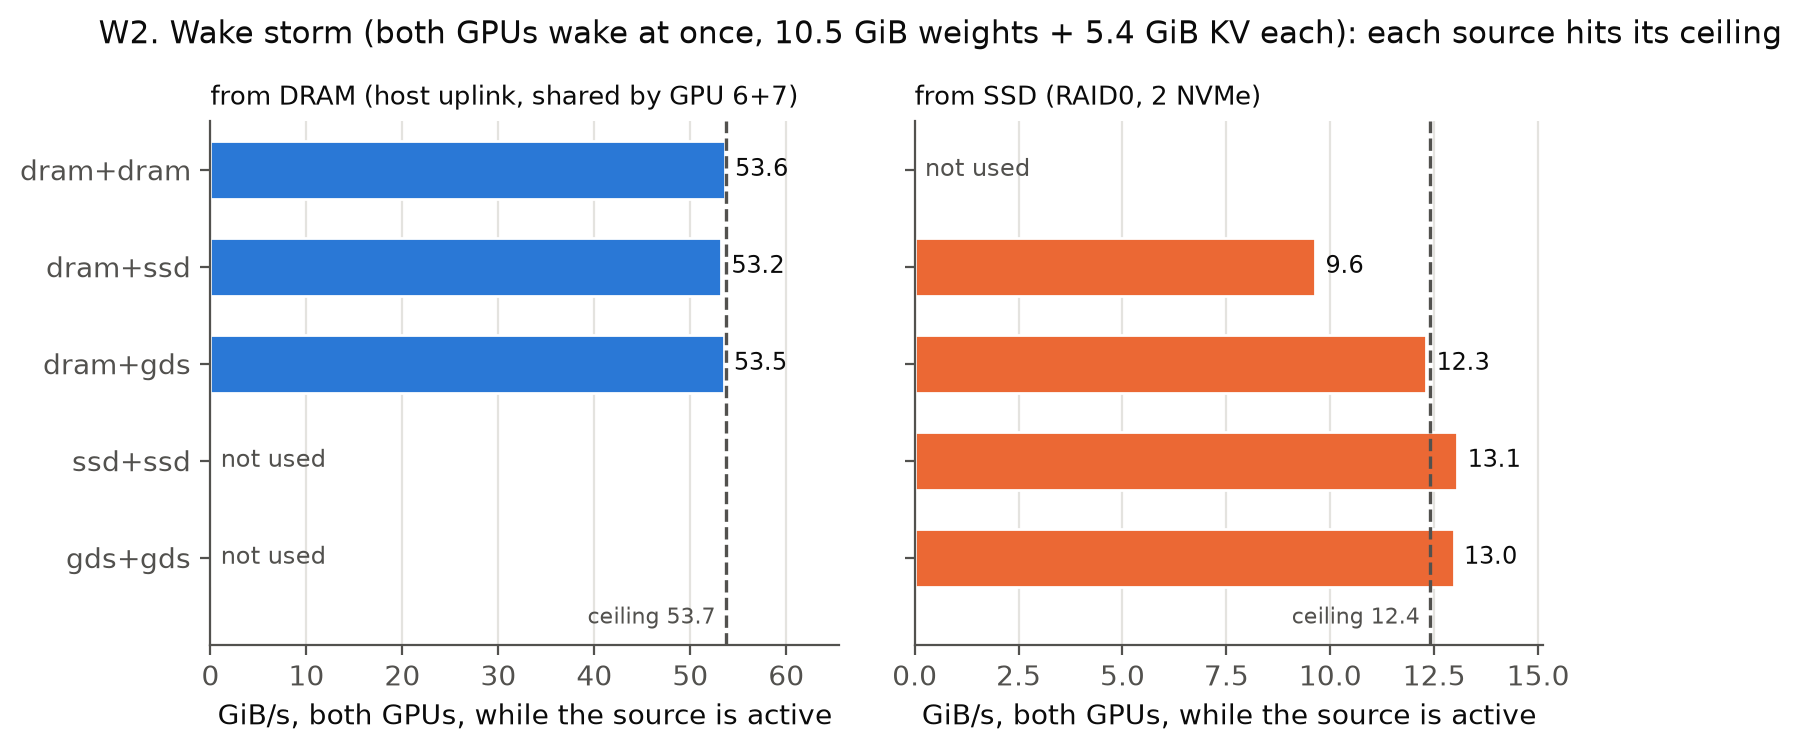
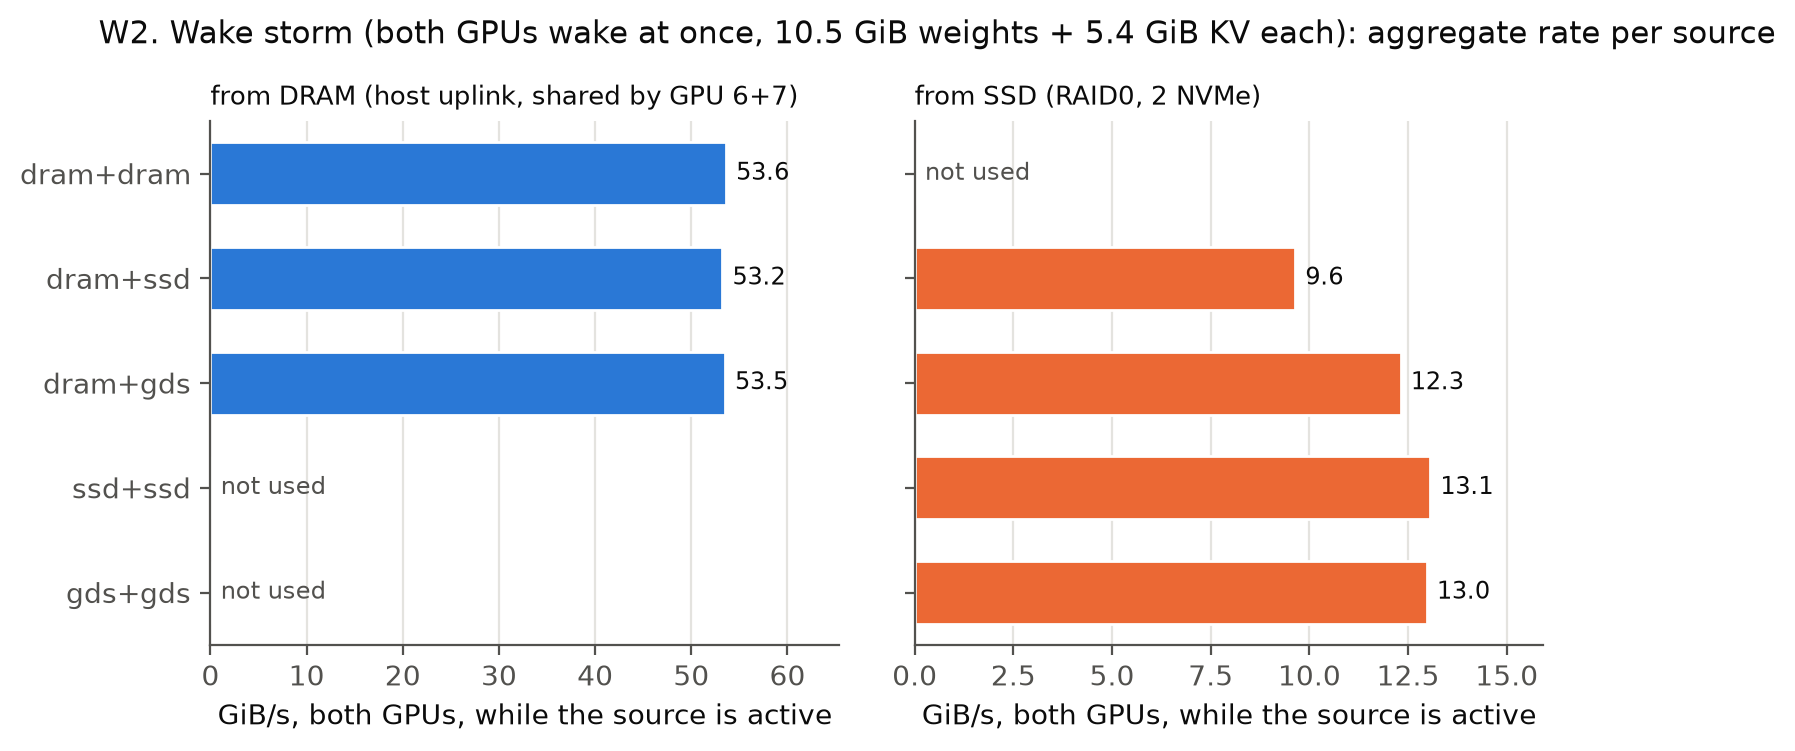
W2: drop the ceiling lines
The SSD ceiling (12.4 GiB/s, single-process GDS) sat below the ssd+ssd and
gds+gds rates (13.1, 13.0), which match RAID0's ~13.2 GiB/s POSIX read.
Show the measured rates only.

diff --git a/analysis/figures_page.html b/analysis/figures_page.html
@@ -108,14 +108,14 @@ footer { color: var(--muted); font-size: 12.5px; }
 </figure>
 
 <figure id="W2">
-  <div class="fig-head"><span class="tag">W2</span><h2>每個資料來源的總頻寬和上限</h2></div>
+  <div class="fig-head"><span class="tag">W2</span><h2>每個資料來源的總頻寬</h2></div>
   <p class="lede" id="W2-lede"></p>
   <div class="legend" id="W2-legend"></div>
   <div style="display:grid;grid-template-columns:repeat(auto-fit,minmax(280px,1fr));gap:16px">
     <div class="chart" style="height:260px;min-width:0"><canvas id="c-W2a" aria-label="DRAM 來源頻寬"></canvas></div>
     <div class="chart" style="height:260px;min-width:0"><canvas id="c-W2b" aria-label="SSD 來源頻寬"></canvas></div>
   </div>
-  <p class="note">頻寬算法：每一輪兩張 GPU 從該來源搬的總 bytes，除以該來源從開始到結束的時間；取 12 輪的中位數。上限是之前單獨量到的值：GPU 6、7 共用的 host uplink 53.7 GiB/s，RAID0 的 sequential read 12.4 GiB/s。</p>
+  <p class="note">頻寬算法：每一輪兩張 GPU 從該來源搬的總 bytes，除以該來源從開始到結束的時間；取 12 輪的中位數。</p>
   <details><summary>數據表</summary><div class="tbl" id="W2-table"></div></details>
 </figure>
 
@@ -233,8 +233,8 @@ function text() {
     `兩張 GPU 同時換 model。<strong>wake</strong> 時，weights 從 DRAM、KV 從 SSD（GDS）<strong>同時</strong>搬，總時間由比較慢的那一邊決定。` +
     `<strong>sleep</strong> 時是<strong>先存 weights、再存 KV</strong>，兩段串行。第 ${D.A4.turn} 輪、agent ${D.A4.agent}，歷史 ${(a4.history_len / 1000).toFixed(1)}k token。hover 可以看每一段的時間和大小。`;
   document.getElementById("W2-lede").innerHTML =
-    `兩張 GPU 同時 wake 時，每個資料來源都被吃滿：DRAM 約 ${f(ws["dram+dram"].dram_gibs, 1)} GiB/s（上限 ${D.ceilings.uplink_gibs}），` +
-    `SSD 約 ${f(ws["dram+gds"].ssd_gibs, 1)}–${f(ws["ssd+ssd"].ssd_gibs, 1)} GiB/s（上限 ${D.ceilings.raid_gibs}）。dram+ssd 的 KV 要先經過 host 轉一手，所以 SSD 只跑到 ${f(ws["dram+ssd"].ssd_gibs, 1)}。`;
+    `兩張 GPU 同時 wake 時，各資料來源的總頻寬：DRAM 約 ${f(ws["dram+dram"].dram_gibs, 1)} GiB/s，` +
+    `SSD 約 ${f(ws["dram+gds"].ssd_gibs, 1)}–${f(ws["ssd+ssd"].ssd_gibs, 1)} GiB/s。dram+ssd 的 KV 要先經過 host 轉一手，所以 SSD 只跑到 ${f(ws["dram+ssd"].ssd_gibs, 1)}。`;
   const m = D.W3.model;
   document.getElementById("W3-lede").innerHTML =
     `兩張 GPU 同時 wake，每張分到 DRAM ${f(m.b_dram, 1)} GiB/s、SSD ${f(m.b_ssd, 1)} GiB/s。dram+dram 的時間是 (W+K)/B<sub>dram</sub>；` +
@@ -352,28 +352,25 @@ function drawA4() {
 
 /* ---------- W2 ---------- */
 function drawW2() {
-  legend("W2-legend", [[css("--s1"), "從 DRAM 搬"], [css("--s2"), "從 SSD 搬"], [null, "虛線：量到的上限", ""]]);
-  document.querySelector("#W2-legend span:last-child i").style.cssText = "background:none;border-top:2px dashed " + css("--fg2") + ";height:0;border-radius:0";
-  const mk = (id, key, cap, col, title) => {
-    const o = baseOpts();
-    o.indexAxis = "y"; o.scales.x.min = 0; o.scales.x.max = Math.ceil(cap * 1.2);
+  legend("W2-legend", [[css("--s1"), "從 DRAM 搬"], [css("--s2"), "從 SSD 搬"]]);
+  const mk = (id, key, col, title) => {
+    const o = baseOpts(), top = Math.max(...D.W2.map(r => r[key]));
+    o.indexAxis = "y"; o.scales.x.min = 0; o.scales.x.max = Math.ceil(top * 1.2);
     o.scales.x.title = { display: true, text: title, color: css("--fg2") };
     o.scales.y.grid = { display: false };
-    o.plugins.tooltip.callbacks = { label: it => it.raw ? ` ${it.raw.toFixed(1)} GiB/s，上限的 ${(it.raw / cap * 100).toFixed(0)}%` : " 這組沒用到這個來源" };
+    o.plugins.tooltip.callbacks = { label: it => it.raw ? ` ${it.raw.toFixed(1)} GiB/s` : " 這組沒用到這個來源" };
     return new Chart(document.getElementById(id), { type: "bar", options: o, data: { labels: D.W2.map(r => r.paths), datasets: [{
       data: D.W2.map(r => r[key]), backgroundColor: css(col), barPercentage: .62, borderRadius: { topRight: 3, bottomRight: 3 }, borderSkipped: false }] },
-      plugins: [{ id: "cap", afterDatasetsDraw(ch) {
-        const g = ch.ctx, x = ch.scales.x.getPixelForValue(cap), a = ch.chartArea; g.save();
-        g.strokeStyle = css("--fg2"); g.setLineDash([5, 4]); g.lineWidth = 1.3; g.beginPath(); g.moveTo(x, a.top); g.lineTo(x, a.bottom); g.stroke();
-        g.setLineDash([]); g.fillStyle = css("--fg2"); g.font = "11px IBM Plex Mono"; g.textAlign = "right"; g.fillText(`上限 ${cap}`, x - 4, a.bottom - 6);
+      plugins: [{ id: "vals", afterDatasetsDraw(ch) {
+        const g = ch.ctx, a = ch.chartArea; g.save();
         g.textAlign = "left"; g.font = "12px IBM Plex Mono";
         ch.getDatasetMeta(0).data.forEach((b, i) => { const v = D.W2[i][key];
           g.fillStyle = v ? css("--fg") : css("--muted"); g.fillText(v ? v.toFixed(1) : "沒用到", (v ? b.x : a.left) + 6, b.y + 4); });
         g.restore();
       } }] });
   };
-  charts.W2a = mk("c-W2a", "dram_gibs", D.ceilings.uplink_gibs, "--s1", "從 DRAM（host uplink，GPU 6+7 共用），GiB/s");
-  charts.W2b = mk("c-W2b", "ssd_gibs", D.ceilings.raid_gibs, "--s2", "從 SSD（RAID0，2 顆 NVMe），GiB/s");
+  charts.W2a = mk("c-W2a", "dram_gibs", "--s1", "從 DRAM（host uplink，GPU 6+7 共用），GiB/s");
+  charts.W2b = mk("c-W2b", "ssd_gibs", "--s2", "從 SSD（RAID0，2 顆 NVMe），GiB/s");
   table("W2-table", ["路徑", "DRAM GiB/s", "SSD GiB/s", "wake 輪數"], D.W2.map(r => [r.paths, f(r.dram_gibs, 1), f(r.ssd_gibs, 1), r.rounds]));
 }
 

diff --git a/results/figures/index.html b/results/figures/index.html
@@ -108,14 +108,14 @@ footer { color: var(--muted); font-size: 12.5px; }
 </figure>
 
 <figure id="W2">
-  <div class="fig-head"><span class="tag">W2</span><h2>每個資料來源的總頻寬和上限</h2></div>
+  <div class="fig-head"><span class="tag">W2</span><h2>每個資料來源的總頻寬</h2></div>
   <p class="lede" id="W2-lede"></p>
   <div class="legend" id="W2-legend"></div>
   <div style="display:grid;grid-template-columns:repeat(auto-fit,minmax(280px,1fr));gap:16px">
     <div class="chart" style="height:260px;min-width:0"><canvas id="c-W2a" aria-label="DRAM 來源頻寬"></canvas></div>
     <div class="chart" style="height:260px;min-width:0"><canvas id="c-W2b" aria-label="SSD 來源頻寬"></canvas></div>
   </div>
-  <p class="note">頻寬算法：每一輪兩張 GPU 從該來源搬的總 bytes，除以該來源從開始到結束的時間；取 12 輪的中位數。上限是之前單獨量到的值：GPU 6、7 共用的 host uplink 53.7 GiB/s，RAID0 的 sequential read 12.4 GiB/s。</p>
+  <p class="note">頻寬算法：每一輪兩張 GPU 從該來源搬的總 bytes，除以該來源從開始到結束的時間；取 12 輪的中位數。</p>
   <details><summary>數據表</summary><div class="tbl" id="W2-table"></div></details>
 </figure>
 
@@ -233,8 +233,8 @@ function text() {
     `兩張 GPU 同時換 model。<strong>wake</strong> 時，weights 從 DRAM、KV 從 SSD（GDS）<strong>同時</strong>搬，總時間由比較慢的那一邊決定。` +
     `<strong>sleep</strong> 時是<strong>先存 weights、再存 KV</strong>，兩段串行。第 ${D.A4.turn} 輪、agent ${D.A4.agent}，歷史 ${(a4.history_len / 1000).toFixed(1)}k token。hover 可以看每一段的時間和大小。`;
   document.getElementById("W2-lede").innerHTML =
-    `兩張 GPU 同時 wake 時，每個資料來源都被吃滿：DRAM 約 ${f(ws["dram+dram"].dram_gibs, 1)} GiB/s（上限 ${D.ceilings.uplink_gibs}），` +
-    `SSD 約 ${f(ws["dram+gds"].ssd_gibs, 1)}–${f(ws["ssd+ssd"].ssd_gibs, 1)} GiB/s（上限 ${D.ceilings.raid_gibs}）。dram+ssd 的 KV 要先經過 host 轉一手，所以 SSD 只跑到 ${f(ws["dram+ssd"].ssd_gibs, 1)}。`;
+    `兩張 GPU 同時 wake 時，各資料來源的總頻寬：DRAM 約 ${f(ws["dram+dram"].dram_gibs, 1)} GiB/s，` +
+    `SSD 約 ${f(ws["dram+gds"].ssd_gibs, 1)}–${f(ws["ssd+ssd"].ssd_gibs, 1)} GiB/s。dram+ssd 的 KV 要先經過 host 轉一手，所以 SSD 只跑到 ${f(ws["dram+ssd"].ssd_gibs, 1)}。`;
   const m = D.W3.model;
   document.getElementById("W3-lede").innerHTML =
     `兩張 GPU 同時 wake，每張分到 DRAM ${f(m.b_dram, 1)} GiB/s、SSD ${f(m.b_ssd, 1)} GiB/s。dram+dram 的時間是 (W+K)/B<sub>dram</sub>；` +
@@ -352,28 +352,25 @@ function drawA4() {
 
 /* ---------- W2 ---------- */
 function drawW2() {
-  legend("W2-legend", [[css("--s1"), "從 DRAM 搬"], [css("--s2"), "從 SSD 搬"], [null, "虛線：量到的上限", ""]]);
-  document.querySelector("#W2-legend span:last-child i").style.cssText = "background:none;border-top:2px dashed " + css("--fg2") + ";height:0;border-radius:0";
-  const mk = (id, key, cap, col, title) => {
-    const o = baseOpts();
-    o.indexAxis = "y"; o.scales.x.min = 0; o.scales.x.max = Math.ceil(cap * 1.2);
+  legend("W2-legend", [[css("--s1"), "從 DRAM 搬"], [css("--s2"), "從 SSD 搬"]]);
+  const mk = (id, key, col, title) => {
+    const o = baseOpts(), top = Math.max(...D.W2.map(r => r[key]));
+    o.indexAxis = "y"; o.scales.x.min = 0; o.scales.x.max = Math.ceil(top * 1.2);
     o.scales.x.title = { display: true, text: title, color: css("--fg2") };
     o.scales.y.grid = { display: false };
-    o.plugins.tooltip.callbacks = { label: it => it.raw ? ` ${it.raw.toFixed(1)} GiB/s，上限的 ${(it.raw / cap * 100).toFixed(0)}%` : " 這組沒用到這個來源" };
+    o.plugins.tooltip.callbacks = { label: it => it.raw ? ` ${it.raw.toFixed(1)} GiB/s` : " 這組沒用到這個來源" };
     return new Chart(document.getElementById(id), { type: "bar", options: o, data: { labels: D.W2.map(r => r.paths), datasets: [{
       data: D.W2.map(r => r[key]), backgroundColor: css(col), barPercentage: .62, borderRadius: { topRight: 3, bottomRight: 3 }, borderSkipped: false }] },
-      plugins: [{ id: "cap", afterDatasetsDraw(ch) {
-        const g = ch.ctx, x = ch.scales.x.getPixelForValue(cap), a = ch.chartArea; g.save();
-        g.strokeStyle = css("--fg2"); g.setLineDash([5, 4]); g.lineWidth = 1.3; g.beginPath(); g.moveTo(x, a.top); g.lineTo(x, a.bottom); g.stroke();
-        g.setLineDash([]); g.fillStyle = css("--fg2"); g.font = "11px IBM Plex Mono"; g.textAlign = "right"; g.fillText(`上限 ${cap}`, x - 4, a.bottom - 6);
+      plugins: [{ id: "vals", afterDatasetsDraw(ch) {
+        const g = ch.ctx, a = ch.chartArea; g.save();
         g.textAlign = "left"; g.font = "12px IBM Plex Mono";
         ch.getDatasetMeta(0).data.forEach((b, i) => { const v = D.W2[i][key];
           g.fillStyle = v ? css("--fg") : css("--muted"); g.fillText(v ? v.toFixed(1) : "沒用到", (v ? b.x : a.left) + 6, b.y + 4); });
         g.restore();
       } }] });
   };
-  charts.W2a = mk("c-W2a", "dram_gibs", D.ceilings.uplink_gibs, "--s1", "從 DRAM（host uplink，GPU 6+7 共用），GiB/s");
-  charts.W2b = mk("c-W2b", "ssd_gibs", D.ceilings.raid_gibs, "--s2", "從 SSD（RAID0，2 顆 NVMe），GiB/s");
+  charts.W2a = mk("c-W2a", "dram_gibs", "--s1", "從 DRAM（host uplink，GPU 6+7 共用），GiB/s");
+  charts.W2b = mk("c-W2b", "ssd_gibs", "--s2", "從 SSD（RAID0，2 顆 NVMe），GiB/s");
   table("W2-table", ["路徑", "DRAM GiB/s", "SSD GiB/s", "wake 輪數"], D.W2.map(r => [r.paths, f(r.dram_gibs, 1), f(r.ssd_gibs, 1), r.rounds]));
 }
 

diff --git a/analysis/make_figures.py b/analysis/make_figures.py
@@ -279,23 +279,22 @@ def w2_data():
 def w2_plot(rows):
     fig, axes = plt.subplots(1, 2, figsize=(8.6, 3.4), sharey=True, gridspec_kw={"wspace": 0.12})
     y = np.arange(len(rows))[::-1]
-    for ax, key, cap, title, color in [
-            (axes[0], "dram_gibs", UPLINK_GIBS, "from DRAM (host uplink, shared by GPU 6+7)", SLOTS[0]),
-            (axes[1], "ssd_gibs", RAID_GIBS, "from SSD (RAID0, 2 NVMe)", SLOTS[1])]:
+    for ax, key, title, color in [
+            (axes[0], "dram_gibs", "from DRAM (host uplink, shared by GPU 6+7)", SLOTS[0]),
+            (axes[1], "ssd_gibs", "from SSD (RAID0, 2 NVMe)", SLOTS[1])]:
         v = [r[key] for r in rows]
+        top = max(v)
         ax.barh(y, v, height=0.6, color=color, edgecolor="white")
         for yy, vv in zip(y, v):
-            ax.text(vv + cap * 0.02, yy, f"{vv:.1f}" if vv else "not used", va="center", fontsize=8.5,
+            ax.text(vv + top * 0.02, yy, f"{vv:.1f}" if vv else "not used", va="center", fontsize=8.5,
                     color=TEXT if vv else TEXT2)
-        ax.axvline(cap, color=TEXT2, lw=1.2, ls="--")
-        ax.text(cap * 0.98, -0.62, f"ceiling {cap}", ha="right", va="center", fontsize=8, color=TEXT2)
-        ax.set_xlim(0, cap * 1.22)
-        ax.set_ylim(-0.9, len(rows) - 0.5)
+        ax.set_xlim(0, top * 1.22)
+        ax.set_ylim(-0.5, len(rows) - 0.5)
         ax.set_title(title, fontsize=9.5, color=TEXT, loc="left")
         ax.set_xlabel("GiB/s, both GPUs, while the source is active")
         ax.grid(axis="y", visible=False)
     axes[0].set_yticks(y, [r["paths"] for r in rows])
-    fig.suptitle("W2. Wake storm (both GPUs wake at once, 10.5 GiB weights + 5.4 GiB KV each): each source hits its ceiling",
+    fig.suptitle("W2. Wake storm (both GPUs wake at once, 10.5 GiB weights + 5.4 GiB KV each): aggregate rate per source",
                  x=0.06, ha="left", fontsize=11, color=TEXT, y=1.03)
     fig.savefig(os.path.join(OUT, "W2_source_bandwidth.png"))
     plt.close(fig)
